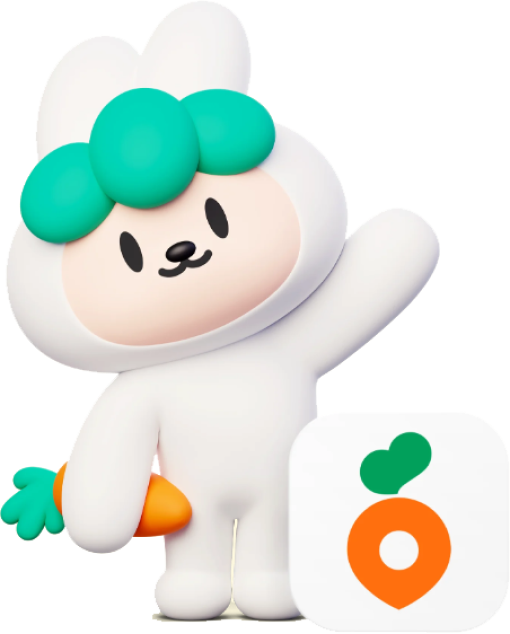
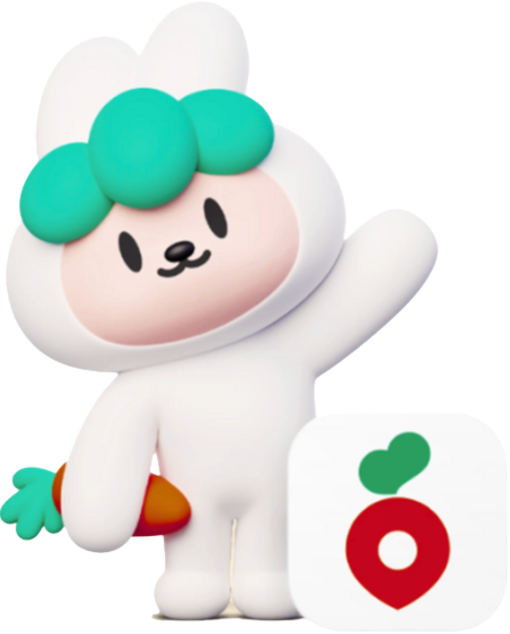
feat: css 테마 수정

diff --git a/awesome_project/awesome_app/templates/awesome_app/main.html b/awesome_project/awesome_app/templates/awesome_app/main.html
@@ -9,6 +9,7 @@
     <link rel="stylesheet" type="text/css" href="{% static 'css/nav.css' %}"/>
     <link rel="stylesheet" type="text/css" href="{% static 'css/main.css' %}"/>
     <link rel="stylesheet" type="text/css" href="{% static 'css/footer.css' %}"/>
+    <link rel="icon" type="image/png" sizes="16x16" href="{% static 'dangun_app/favicon.ico' %}"/>
   </head>
 
   <body>
@@ -17,13 +18,13 @@
     <div class="content-box section1">
       <div class="container between flex-box">
         <div class="main-box flex-box column">
-          <h1>동무 근처의<br>지역 생활 연대</h1>
-          <h4>동네라서 할 수 있는 모든 것<br>당근에서 가까운 동무와 함께 하라우.</h4>
+          <h1>린민들이여<br>지혜롭게 돌려쓰자<br>무용지물이란 없다</h1>
+          <h4>동네라서 할 수 있는 모든 것<br>린지무에서 가까운 동무와 함께 하라우.</h4>
           <div class="flex-box gap16">
             <button class="flex-box gap8" onclick="location.href='https://play.google.com/store/apps/details?id=com.towneers.www&hl=ko-KR'">
-              <img src="{% static 'img/icon_googleplay.png' %}" alt=""/>Google Play</button>
+              <img src="{% static 'img/icon_googleplay.png' %}" alt=""/>구-글 놀이</button>
             <button class="flex-box gap8" onclick="location.href='https://apps.apple.com/kr/app/%EB%8B%B9%EA%B7%BC/id1018769995'">
-              <img src="{% static 'img/icon_appstore.png' %}" alt=""/>App Store</button>
+              <img src="{% static 'img/icon_appstore.png' %}" alt=""/>어-플 상점</button>
           </div>
         </div>
         <img src="{% static 'img/character.png' %}" alt=""/>

diff --git a/awesome_project/awesome_app/static/css/search.css b/awesome_project/awesome_app/static/css/search.css
@@ -107,7 +107,7 @@ a {
   position: fixed;
   bottom: 40px;
   right: 40px;
-  background-color: #ff6f0e; 
+  background-color: #B22222; 
   border-radius: 50%;
   width: 80px; 
   height: 80px; 
@@ -124,7 +124,7 @@ a {
   color: #fff;
 }
 .floating-button:hover {
-  background-color: #ff8534; 
+  background-color: #B22222; 
   cursor: pointer;
 }
 .search-box{
@@ -208,7 +208,7 @@ a {
   position: fixed;
   bottom: 40px;
   right: 40px;
-  background-color: #ff6f0e; 
+  background-color: #B22222; 
   border-radius: 50%;
   width: 80px; 
   height: 80px; 
@@ -226,7 +226,7 @@ a {
   color: #fff;
 }
 .floating-button:hover {
-  background-color: #ff8534; 
+  background-color: #B22222; 
   cursor: pointer;
 }
 

diff --git a/awesome_project/awesome_app/static/css/login.css b/awesome_project/awesome_app/static/css/login.css
@@ -11,7 +11,7 @@
 .login-input{
     width: -webkit-fill-available;
     background-color: #fff;
-    border: 1px solid #fa6616;
+    border: 1px solid #B22222;
     border-radius: 100px;
     padding: 13px;
 }
@@ -30,7 +30,7 @@
 
 .login-button{
     width: 100%;
-    background-color: #fa6616;
+    background-color: #B22222;
     border-radius: 100px;
     padding: 13px;
     border: none;
@@ -46,7 +46,7 @@
 }
 
 button:hover{
-    background-color: #ff823f;
+    background-color: #B22222;
 }
 
 .register-reco{
@@ -57,6 +57,6 @@ button:hover{
 
 .register-reco a{
     text-decoration: none;
-    color: #ff823f;
+    color: #B22222;
     cursor: pointer;
 }

diff --git a/awesome_project/awesome_app/static/css/chat.css b/awesome_project/awesome_app/static/css/chat.css
@@ -58,7 +58,7 @@ h3{
 }
 
 .button-box .orange {
-    background-color: #fa6616;
+    background-color: #B22222;
     color: #fff;
     font-weight: 700;
     padding: 12px 32px;
@@ -95,7 +95,7 @@ hr{
 }
 
 .temp{
-    border: 1px solid #fa6616;
+    border: 1px solid #B22222;
     font-size: 12px;
     border-radius: 48px;
     padding: 2px 6px;
@@ -291,7 +291,7 @@ hr{
 }
 
 .from-me div {
-    background-color: #fa6616;
+    background-color: #B22222;
     color: #fff;
     margin : 5px
 }
@@ -378,7 +378,7 @@ a{
 }
 
 .selected-chat {
-    background-color: hsl(22, 100%, 60%);
+    background-color: #B22222;
 }
 
 .toast {

diff --git a/awesome_project/awesome_app/templates/awesome_app/search.html b/awesome_project/awesome_app/templates/awesome_app/search.html
@@ -10,6 +10,7 @@
     <link rel="stylesheet" type="text/css" href="{% static 'css/nav.css' %}"/>
     <link rel="stylesheet" type="text/css" href="{% static 'css/search.css' %}"/>
     <link rel="stylesheet" type="text/css" href="{% static 'css/footer.css' %}"/>
+    <link rel="icon" type="image/png" sizes="16x16" href="{% static 'dangun_app/favicon.ico' %}"/>
     <meta name="viewport" content="width=device-width, initial-scale=1.0">
     <title>검색결과</title>
   </head>

diff --git a/awesome_project/awesome_app/static/css/test.css b/awesome_project/awesome_app/static/css/test.css
@@ -58,7 +58,7 @@ h3{
 }
 
 .button-box .orange {
-    background-color: #fa6616;
+    background-color: #B22222;
     color: #fff;
     font-weight: 700;
     padding: 12px 32px;
@@ -95,7 +95,7 @@ hr{
 }
 
 .temp{
-    border: 1px solid #fa6616;
+    border: 1px solid #B22222;
     font-size: 12px;
     border-radius: 48px;
     padding: 2px 6px;
@@ -218,7 +218,7 @@ hr{
 }
 
 .from-me div{
-    background-color: #fa6616;
+    background-color: #B22222;
     color: #fff;
 }
 

diff --git a/awesome_project/awesome_app/templates/awesome_app/trade_post.html b/awesome_project/awesome_app/templates/awesome_app/trade_post.html
@@ -12,6 +12,7 @@
     <link rel="stylesheet" type="text/css" href="{% static 'css/trade_post.css' %}"/>
     <link rel="stylesheet" type="text/css" href="{% static 'css/nav.css' %}"/>
     <link rel="stylesheet" type="text/css" href="{% static 'css/footer.css' %}"/>
+    <link rel="icon" type="image/png" sizes="16x16" href="{% static 'dangun_app/favicon.ico' %}"/>
     <title>중고거래 상세보기</title>
   </head>
 

diff --git a/awesome_project/awesome_app/templates/awesome_app/location.html b/awesome_project/awesome_app/templates/awesome_app/location.html
@@ -10,6 +10,7 @@
     <link rel="stylesheet" type="text/css" href="{% static 'css/nav.css' %}"/>
     <link rel="stylesheet" type="text/css" href="{% static 'css/location.css' %}"/>
     <link rel="stylesheet" type="text/css" href="{% static 'css/footer.css' %}"/>
+    <link rel="icon" type="image/png" sizes="16x16" href="{% static 'dangun_app/favicon.ico' %}"/>
     <title>동네인증</title>
   </head>
 

diff --git a/awesome_project/awesome_app/templates/awesome_app/chat.html b/awesome_project/awesome_app/templates/awesome_app/chat.html
@@ -13,6 +13,7 @@
   <link rel="stylesheet" type="text/css" href="{% static 'css/nav.css' %}" />
   <link rel="stylesheet" type="text/css" href="{% static 'css/footer.css' %}" />
   <link rel="stylesheet" type="text/css" href="{% static 'css/chat.css' %}" />
+  <link rel="icon" type="image/png" sizes="16x16" href="{% static 'dangun_app/favicon.ico' %}"/>
   <title>채팅하기</title>
 </head>
 

diff --git a/awesome_project/awesome_app/templates/awesome_app/trade.html b/awesome_project/awesome_app/templates/awesome_app/trade.html
@@ -11,6 +11,7 @@
     <link rel="stylesheet" type="text/css" href="{% static 'css/trade.css' %}"/>
     <link rel="stylesheet" type="text/css" href="{% static 'css/nav.css' %}"/>
     <link rel="stylesheet" type="text/css" href="{% static 'css/footer.css' %}"/>
+    <link rel="icon" type="image/png" sizes="16x16" href="{% static 'dangun_app/favicon.ico' %}"/>
   </head>
 
   <body>

diff --git a/awesome_project/awesome_app/templates/awesome_app/write.html b/awesome_project/awesome_app/templates/awesome_app/write.html
@@ -11,6 +11,7 @@
     <link rel="stylesheet" type="text/css" href="{% static 'css/write.css' %}"/>
     <link rel="stylesheet" type="text/css" href="{% static 'css/nav.css' %}"/>
     <link rel="stylesheet" type="text/css" href="{% static 'css/footer.css' %}"/>
+    <link rel="icon" type="image/png" sizes="16x16" href="{% static 'dangun_app/favicon.ico' %}"/>
   </head>
 
   <body>

diff --git a/awesome_project/awesome_app/static/css/trade.css b/awesome_project/awesome_app/static/css/trade.css
@@ -144,7 +144,7 @@ h1{
     position: fixed;
     bottom: 40px;
     right: 40px;
-    background-color: #ff6f0e; 
+    background-color: #B22222; 
     border-radius: 50%;
     width: 80px; 
     height: 80px; 
@@ -163,7 +163,7 @@ h1{
   }
 
   .floating-button:hover {
-    background-color: #ff8534; 
+    background-color: #B22222; 
     cursor: pointer;
   }
 
